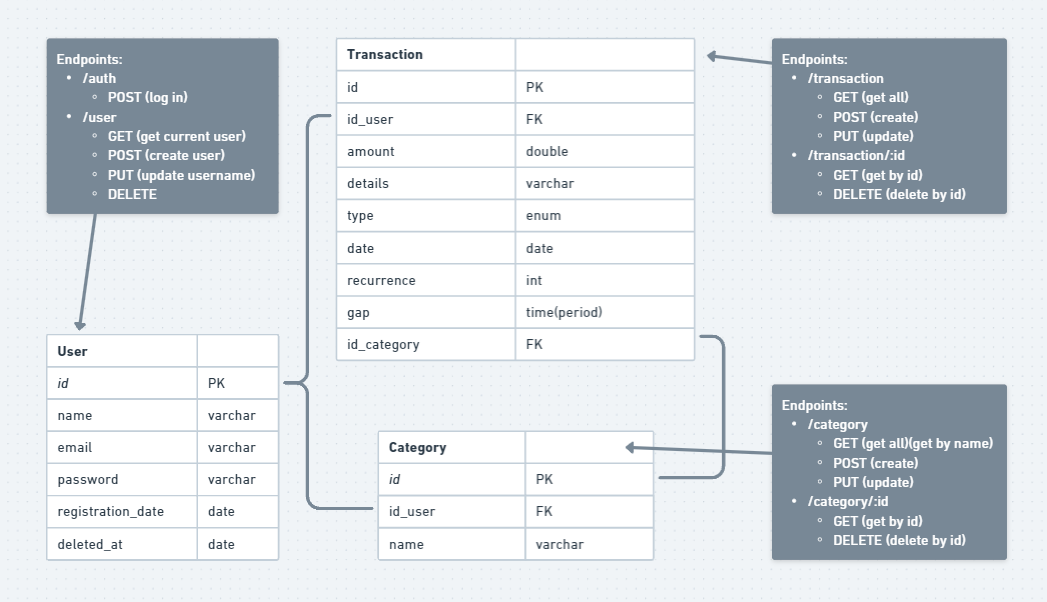
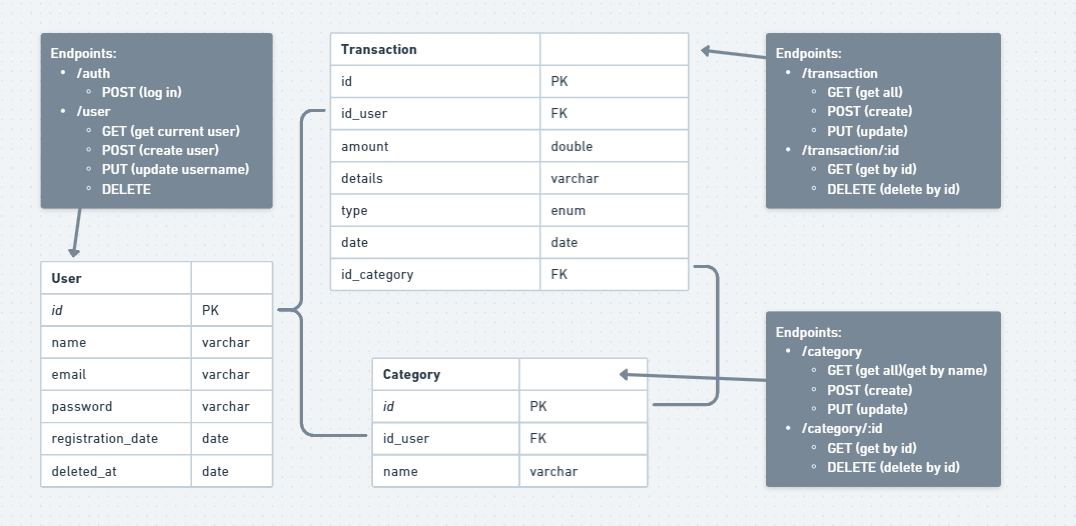
docs: fix the readme image

Changed region(s): [[0.0306, 0.0608, 0.978, 0.943]]

diff --git a/README.md b/README.md
@@ -30,7 +30,7 @@ Descrição do projeto: Um app simples para controlar finanças pessoais.
 
 ---
 #### Descrição detalhada:
-Este é um app para controle de finança pessoais. Onde cada usuário pode criar uma conta. Cada conta pode adicionar e remover transações. Cada transação tem uma categoria. Uma transação pode ser recorrente, definindo-se um período e a quantidade de vezes que será executada.
+Este é um app para controle de finança pessoais. Onde cada usuário pode criar uma conta. Cada conta pode adicionar e remover transações. Cada transação tem uma categoria.
 
 Posteriormente o front end do app terá um dashboard informando números referentes as transações do usuário. Incluindo:
 - Razão entre o dinheiro gasto em cada categoria em relação ao total gasto
